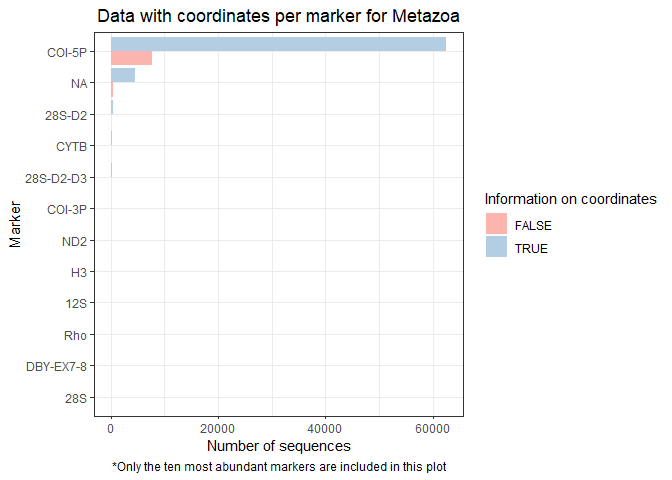
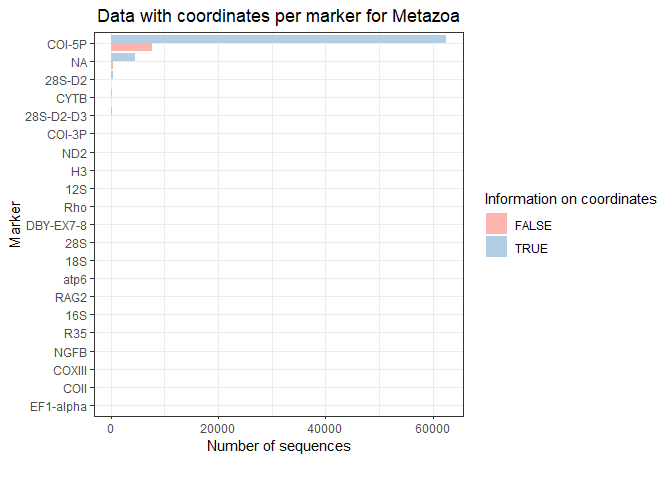
added missing sequences to locality and latlon tables for viridiplantae and metazoa

Changed region(s): [[0.0312, 0.0625, 0.6562, 0.875], [0.1562, 0.9688, 0.6562, 1.0]]

diff --git a/scripts/4_EDA_bold.md b/scripts/4_EDA_bold.md
@@ -206,129 +206,166 @@ Genetic markers available for all organisms:
 
 Number of sequences per marker for Metazoa
 
-    ## # A tibble: 32 x 3
-    ## # Groups:   Marker [21]
-    ##    Marker    latlon_info Number_sequences
-    ##    <chr>     <lgl>                  <int>
-    ##  1 COI-5P    FALSE                   7634
-    ##  2 COI-5P    TRUE                   62547
-    ##  3 NA        FALSE                    328
-    ##  4 NA        TRUE                    4546
-    ##  5 28S-D2    FALSE                      4
-    ##  6 28S-D2    TRUE                     322
-    ##  7 CYTB      FALSE                     14
-    ##  8 CYTB      TRUE                     139
-    ##  9 28S-D2-D3 FALSE                      7
-    ## 10 28S-D2-D3 TRUE                     132
-    ## 11 COI-3P    FALSE                     92
-    ## 12 COI-3P    TRUE                       2
-    ## 13 ND2       TRUE                      42
-    ## 14 H3        FALSE                      8
-    ## 15 H3        TRUE                      29
-    ## 16 12S       TRUE                      31
-    ## 17 Rho       FALSE                     19
-    ## 18 28S       FALSE                      2
-    ## 19 28S       TRUE                      12
-    ## 20 DBY-EX7-8 FALSE                      1
-    ## 21 DBY-EX7-8 TRUE                      13
-    ## 22 18S       FALSE                      6
-    ## 23 18S       TRUE                       6
-    ## 24 atp6      FALSE                      6
-    ## 25 16S       FALSE                      1
-    ## 26 16S       TRUE                       4
-    ## 27 RAG2      TRUE                       5
-    ## 28 NGFB      TRUE                       3
-    ## 29 R35       TRUE                       3
-    ## 30 COII      FALSE                      2
-    ## 31 COXIII    FALSE                      2
-    ## 32 EF1-alpha TRUE                       1
+    ## # A tibble: 21 x 2
+    ##    Marker    Number_sequences
+    ##    <chr>                <int>
+    ##  1 COI-5P               70181
+    ##  2 NA                    4874
+    ##  3 28S-D2                 326
+    ##  4 CYTB                   153
+    ##  5 28S-D2-D3              139
+    ##  6 COI-3P                  94
+    ##  7 ND2                     42
+    ##  8 H3                      37
+    ##  9 12S                     31
+    ## 10 Rho                     19
+    ## 11 28S                     14
+    ## 12 DBY-EX7-8               14
+    ## 13 18S                     12
+    ## 14 atp6                     6
+    ## 15 16S                      5
+    ## 16 RAG2                     5
+    ## 17 NGFB                     3
+    ## 18 R35                      3
+    ## 19 COII                     2
+    ## 20 COXIII                   2
+    ## 21 EF1-alpha                1
 
-    ## # A tibble: 32 x 3
-    ## # Groups:   Marker [21]
-    ##    Marker    locality_info Number_sequences
-    ##    <chr>     <lgl>                    <int>
-    ##  1 COI-5P    FALSE                    20037
-    ##  2 COI-5P    TRUE                     50144
-    ##  3 NA        FALSE                       81
-    ##  4 NA        TRUE                      4793
-    ##  5 28S-D2    FALSE                        4
-    ##  6 28S-D2    TRUE                       322
-    ##  7 CYTB      FALSE                        8
-    ##  8 CYTB      TRUE                       145
-    ##  9 28S-D2-D3 TRUE                       139
-    ## 10 COI-3P    FALSE                        4
-    ## 11 COI-3P    TRUE                        90
-    ## 12 ND2       FALSE                       11
-    ## 13 ND2       TRUE                        31
-    ## 14 H3        TRUE                        37
-    ## 15 12S       FALSE                       31
-    ## 16 Rho       FALSE                        1
-    ## 17 Rho       TRUE                        18
-    ## 18 28S       FALSE                        5
-    ## 19 28S       TRUE                         9
-    ## 20 DBY-EX7-8 TRUE                        14
-    ## 21 18S       FALSE                        9
-    ## 22 18S       TRUE                         3
-    ## 23 atp6      FALSE                        2
-    ## 24 atp6      TRUE                         4
-    ## 25 16S       FALSE                        5
-    ## 26 RAG2      FALSE                        2
-    ## 27 RAG2      TRUE                         3
-    ## 28 NGFB      TRUE                         3
-    ## 29 R35       TRUE                         3
-    ## 30 COII      FALSE                        2
-    ## 31 COXIII    FALSE                        2
-    ## 32 EF1-alpha TRUE                         1
+    ##       Marker latlon_info Number_sequences
+    ## 1     COI-5P        TRUE            62547
+    ## 2     COI-5P       FALSE             7634
+    ## 3         NA        TRUE             4546
+    ## 4         NA       FALSE              328
+    ## 5     28S-D2        TRUE              322
+    ## 6     28S-D2       FALSE                4
+    ## 7       CYTB        TRUE              139
+    ## 8       CYTB       FALSE               14
+    ## 9  28S-D2-D3        TRUE              132
+    ## 10 28S-D2-D3       FALSE                7
+    ## 11    COI-3P        TRUE                2
+    ## 12    COI-3P       FALSE               92
+    ## 13       ND2        TRUE               42
+    ## 14       ND2       FALSE                0
+    ## 15        H3        TRUE               29
+    ## 16        H3       FALSE                8
+    ## 17       12S        TRUE               31
+    ## 18       12S       FALSE                0
+    ## 19       Rho        TRUE                0
+    ## 20       Rho       FALSE               19
+    ## 21 DBY-EX7-8        TRUE               13
+    ## 22 DBY-EX7-8       FALSE                1
+    ## 23       28S        TRUE               12
+    ## 24       28S       FALSE                2
+    ## 25       18S        TRUE                6
+    ## 26       18S       FALSE                6
+    ## 27      atp6        TRUE                0
+    ## 28      atp6       FALSE                6
+    ## 29      RAG2        TRUE                5
+    ## 30      RAG2       FALSE                0
+    ## 31       16S        TRUE                4
+    ## 32       16S       FALSE                1
+    ## 33       R35        TRUE                3
+    ## 34       R35       FALSE                0
+    ## 35      NGFB        TRUE                3
+    ## 36      NGFB       FALSE                0
+    ## 37    COXIII        TRUE                0
+    ## 38    COXIII       FALSE                2
+    ## 39      COII        TRUE                0
+    ## 40      COII       FALSE                2
+    ## 41 EF1-alpha        TRUE                1
+    ## 42 EF1-alpha       FALSE                0
+
+    ##       Marker locality_info Number_sequences
+    ## 1     COI-5P          TRUE            50144
+    ## 2     COI-5P         FALSE            20037
+    ## 3         NA          TRUE             4793
+    ## 4         NA         FALSE               81
+    ## 5     28S-D2          TRUE              322
+    ## 6     28S-D2         FALSE                4
+    ## 7       CYTB          TRUE              145
+    ## 8       CYTB         FALSE                8
+    ## 9  28S-D2-D3          TRUE              139
+    ## 10 28S-D2-D3         FALSE                0
+    ## 11    COI-3P          TRUE               90
+    ## 12    COI-3P         FALSE                4
+    ## 13       ND2          TRUE               31
+    ## 14       ND2         FALSE               11
+    ## 15        H3          TRUE               37
+    ## 16        H3         FALSE                0
+    ## 17       12S          TRUE                0
+    ## 18       12S         FALSE               31
+    ## 19       Rho          TRUE               18
+    ## 20       Rho         FALSE                1
+    ## 21 DBY-EX7-8          TRUE               14
+    ## 22 DBY-EX7-8         FALSE                0
+    ## 23       28S          TRUE                9
+    ## 24       28S         FALSE                5
+    ## 25       18S          TRUE                3
+    ## 26       18S         FALSE                9
+    ## 27      atp6          TRUE                4
+    ## 28      atp6         FALSE                2
+    ## 29      RAG2          TRUE                3
+    ## 30      RAG2         FALSE                2
+    ## 31       16S          TRUE                0
+    ## 32       16S         FALSE                5
+    ## 33       R35          TRUE                3
+    ## 34       R35         FALSE                0
+    ## 35      NGFB          TRUE                3
+    ## 36      NGFB         FALSE                0
+    ## 37    COXIII          TRUE                0
+    ## 38    COXIII         FALSE                2
+    ## 39      COII          TRUE                0
+    ## 40      COII         FALSE                2
+    ## 41 EF1-alpha          TRUE                1
+    ## 42 EF1-alpha         FALSE                0
 
 ![](4_EDA_bold_files/figure-gfm/unnamed-chunk-17-1.png)<!-- -->![](4_EDA_bold_files/figure-gfm/unnamed-chunk-17-2.png)<!-- -->![](4_EDA_bold_files/figure-gfm/unnamed-chunk-17-3.png)<!-- -->
 
 Number of sequences per marker for Viridiplantae
 
-    ## # A tibble: 18 x 3
-    ## # Groups:   Marker [10]
-    ##    Marker         latlon_info Number_sequences
-    ##    <chr>          <lgl>                  <int>
-    ##  1 matK           FALSE                   1125
-    ##  2 matK           TRUE                    1298
-    ##  3 rbcLa          FALSE                    142
-    ##  4 rbcLa          TRUE                    1704
-    ##  5 ITS2           FALSE                   1675
-    ##  6 ITS2           TRUE                     125
-    ##  7 rbcL           FALSE                    200
-    ##  8 rbcL           TRUE                     126
-    ##  9 trnD-trnY-trnE FALSE                      9
-    ## 10 trnD-trnY-trnE TRUE                      93
-    ## 11 trnH-psbA      FALSE                      9
-    ## 12 trnH-psbA      TRUE                      93
-    ## 13 ycf1           FALSE                      9
-    ## 14 ycf1           TRUE                      93
-    ## 15 NA             FALSE                      1
-    ## 16 NA             TRUE                       1
-    ## 17 ITS            TRUE                       1
-    ## 18 trnL-F         FALSE                      1
+    ##            Marker latlon_info Number_sequences
+    ## 1            matK        TRUE             1298
+    ## 2            matK       FALSE             1125
+    ## 3           rbcLa        TRUE             1704
+    ## 4           rbcLa       FALSE              142
+    ## 5            ITS2        TRUE              125
+    ## 6            ITS2       FALSE             1675
+    ## 7            rbcL        TRUE              126
+    ## 8            rbcL       FALSE              200
+    ## 9            ycf1        TRUE               93
+    ## 10           ycf1       FALSE                9
+    ## 11      trnH-psbA        TRUE               93
+    ## 12      trnH-psbA       FALSE                9
+    ## 13 trnD-trnY-trnE        TRUE               93
+    ## 14 trnD-trnY-trnE       FALSE                9
+    ## 15             NA        TRUE                1
+    ## 16             NA       FALSE                1
+    ## 17         trnL-F        TRUE                0
+    ## 18         trnL-F       FALSE                1
+    ## 19            ITS        TRUE                1
+    ## 20            ITS       FALSE                0
 
-    ## # A tibble: 18 x 3
-    ## # Groups:   Marker [10]
-    ##    Marker         locality_info Number_sequences
-    ##    <chr>          <lgl>                    <int>
-    ##  1 matK           FALSE                     2012
-    ##  2 matK           TRUE                       411
-    ##  3 rbcLa          FALSE                     1623
-    ##  4 rbcLa          TRUE                       223
-    ##  5 ITS2           FALSE                      563
-    ##  6 ITS2           TRUE                      1237
-    ##  7 rbcL           FALSE                      173
-    ##  8 rbcL           TRUE                       153
-    ##  9 trnD-trnY-trnE FALSE                        2
-    ## 10 trnD-trnY-trnE TRUE                       100
-    ## 11 trnH-psbA      FALSE                        2
-    ## 12 trnH-psbA      TRUE                       100
-    ## 13 ycf1           FALSE                        2
-    ## 14 ycf1           TRUE                       100
-    ## 15 NA             FALSE                        1
-    ## 16 NA             TRUE                         1
-    ## 17 ITS            TRUE                         1
-    ## 18 trnL-F         FALSE                        1
+    ##            Marker locality_info Number_sequences
+    ## 1            matK          TRUE              411
+    ## 2            matK         FALSE             2012
+    ## 3           rbcLa          TRUE              223
+    ## 4           rbcLa         FALSE             1623
+    ## 5            ITS2          TRUE             1237
+    ## 6            ITS2         FALSE              563
+    ## 7            rbcL          TRUE              153
+    ## 8            rbcL         FALSE              173
+    ## 9            ycf1          TRUE              100
+    ## 10           ycf1         FALSE                2
+    ## 11      trnH-psbA          TRUE              100
+    ## 12      trnH-psbA         FALSE                2
+    ## 13 trnD-trnY-trnE          TRUE              100
+    ## 14 trnD-trnY-trnE         FALSE                2
+    ## 15             NA          TRUE                1
+    ## 16             NA         FALSE                1
+    ## 17         trnL-F          TRUE                0
+    ## 18         trnL-F         FALSE                1
+    ## 19            ITS          TRUE                1
+    ## 20            ITS         FALSE                0
 
 ![](4_EDA_bold_files/figure-gfm/unnamed-chunk-19-1.png)<!-- -->![](4_EDA_bold_files/figure-gfm/unnamed-chunk-19-2.png)<!-- -->![](4_EDA_bold_files/figure-gfm/unnamed-chunk-19-3.png)<!-- -->
 
